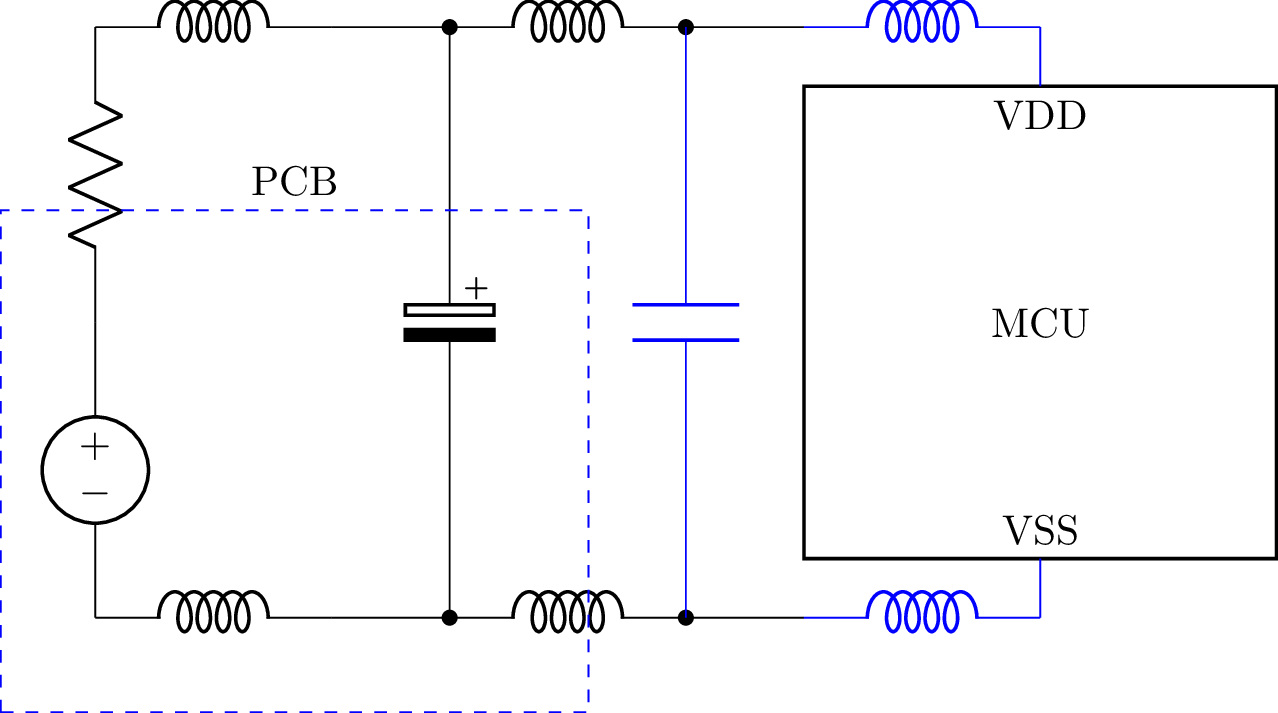
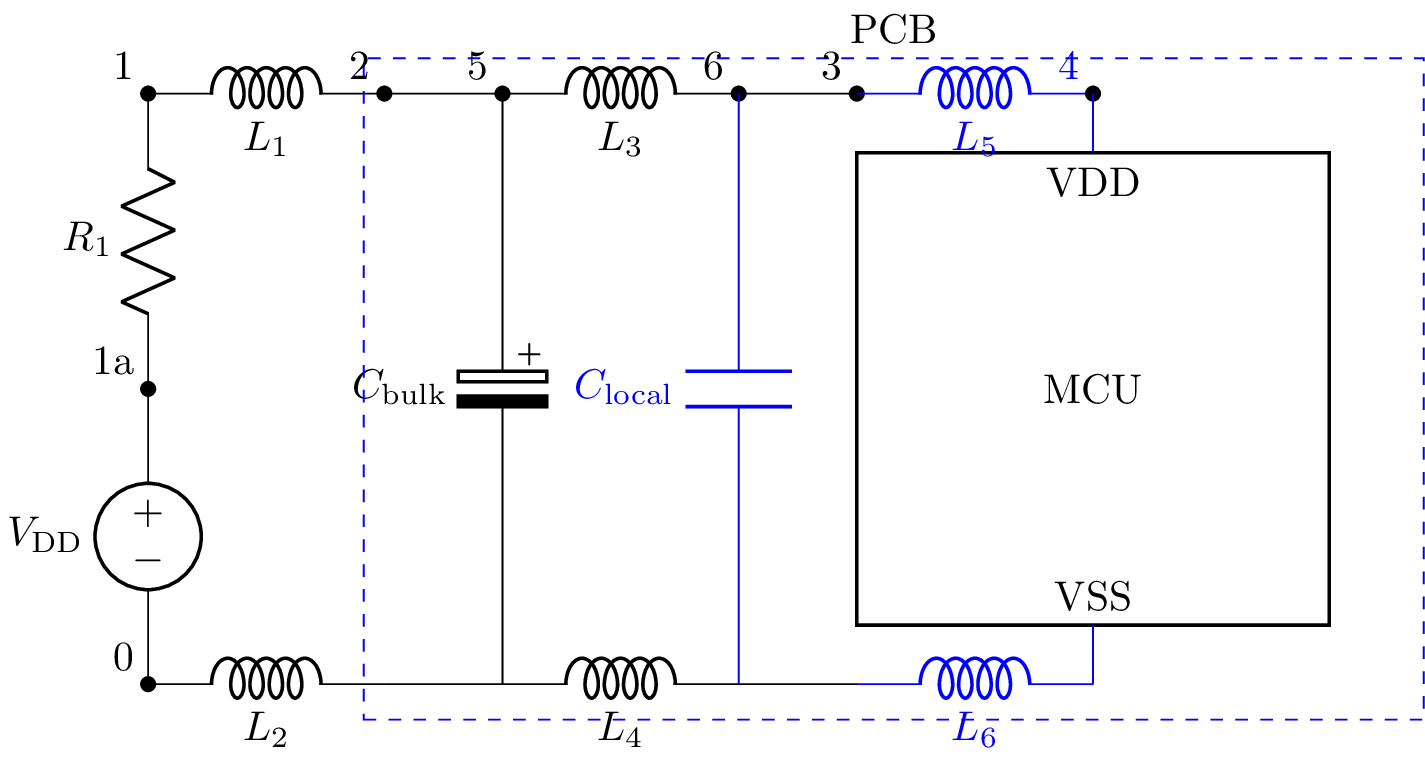
Output all the auxiliary nodes for component fitting

diff --git a/lcapy/schemcpts.py b/lcapy/schemcpts.py
@@ -49,8 +49,10 @@ module = sys.modules[__name__]
 # `required_node_names` is a list comprising a subset of node_names,
 # ignoring the nodes that are not drawn, say the ground node for an opamp.
 #
-# `auxiliary_node_names` is a list of node names for each component used
-# to draw the component.
+# `auxiliary_node_names` is a list of node names for each component
+# used to draw the component.  It also provides node names defining
+# the bounding box of a component so that the user can fit boxes
+# around components.
 #
 # `pin_node_names` is a list of the pin nodes for each component.
 # For example, ['R1.p', 'R1.n'] or ['U1.t1', 'U1.l1', 'U1.b1', 'U1.r1'].
@@ -158,7 +160,7 @@ class Cpt(object):
                  'nowires', 'nolabels', 'steps', 'free', 'fliplr', 'flipud',
                  'nodots', 'draw_nodes', 'label_nodes', 'nodraw',
                  'mirrorinputs', 'autoground', 'xoffset', 'yoffset',
-                 'anchor')
+                 'anchor', 'thickness')
     label_opt_keys = ('label_values', 'label_ids', 'annotate_values')
 
     special_keys = voltage_keys + current_keys + flow_keys + label_keys + \
@@ -183,7 +185,6 @@ class Cpt(object):
     # Auxiliary nodes are used for finding the centre of the shape or
     # to define a bounding box.
     auxiliary = {}
-    required_auxiliary = ('mid', )
     directive = False
     place = True
     kinds = {}
@@ -2928,7 +2929,6 @@ class Triangle(Shape):
                  'top': ('t', 0, 0.5774),
                  'tl': ('l', -0.5, 0.5774),
                  'tr': ('r', 0.5, 0.5774)}
-    required_auxiliary = ('top', 'bl', 'br', 'mid')
 
     def draw(self, **kwargs):
 
@@ -2970,7 +2970,6 @@ class TwoPort(Shape):
                  'ene': ('l', x, p),
                  'ese': ('l', x, -p)}
     auxiliary.update(Shape.auxiliary)
-    required_auxiliary = ('wnw', 'wsw', 'ene', 'ese', 'mid')
 
     node_pinnames = ('out+', 'out-', 'in+', 'in-')
 
@@ -3701,7 +3700,6 @@ class Uopamp(Chip):
     auxiliary = {'lin+': ('c', -0.375, 0.25),
                  'lin-': ('c', -0.375, -0.25)}
     auxiliary.update(Chip.auxiliary)
-    required_auxiliary = ('lin+', 'lin-', 'mid')
 
     ppins = {'out': ('r', 0.5, 0.0),
              'in+': ('l', -0.5, 0.25),
@@ -3762,7 +3760,6 @@ class Ufdopamp(Chip):
                  'lout+': ('c', 0, -0.17),
                  'lout-': ('c', 0, 0.17)}
     auxiliary.update(Chip.auxiliary)
-    required_auxiliary = ('lin+', 'lin-', 'lout+', 'lout-', 'mid')
 
     ppins = {'out-': ('r', 0.1, 0.2),
              'out+': ('r', 0.1, -0.2),

diff --git a/lcapy/schematic.py b/lcapy/schematic.py
@@ -313,8 +313,7 @@ class Schematic(NetfileMixin):
             # use, such as finding the component centre.
             for node_name in cpt.auxiliary_node_names:
                 pinname = node_name.split('.')[-1]
-                if pinname in cpt.required_auxiliary:
-                    self._node_add(node_name, cpt, auxiliary=True)
+                self._node_add(node_name, cpt, auxiliary=True)
 
             # The required nodes are those explicitly
             # specified in the schematic.
